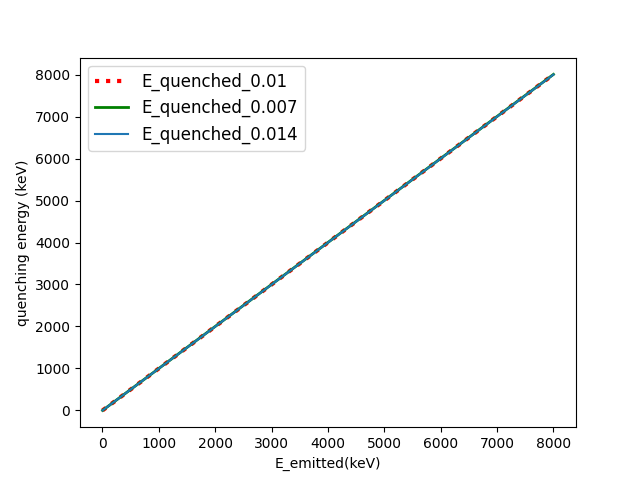
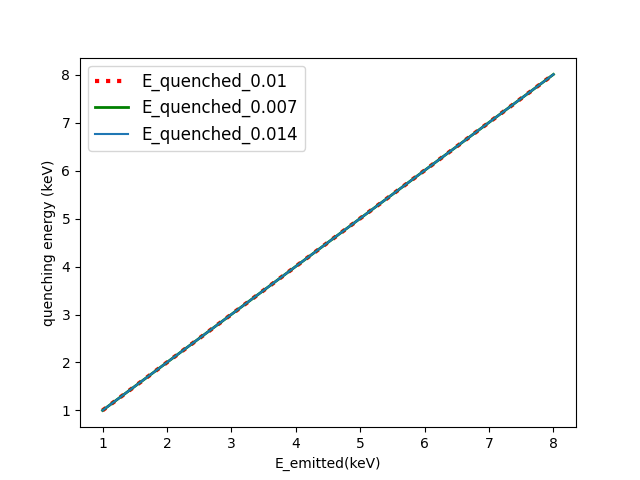
test

diff --git a/MCTDCRcode/TDCR_model_lib.py b/MCTDCRcode/TDCR_model_lib.py
@@ -314,10 +314,11 @@ def E_quench_a(e,kB): # e : keV
     for i in e_dis:
         q += delta/(1+kB*stoppingpowerA(i,doc='alpha_toulene.txt',rho=0.96))
     return q #keV
+
 s1 = []
 s2 = []
 s3 = []
-x = np.linspace(1,8e3,4000) 
+x = np.linspace(1,8,4000) 
 
 for i in x:
     s1.append(E_quench_e(i,kB=7e-6))
